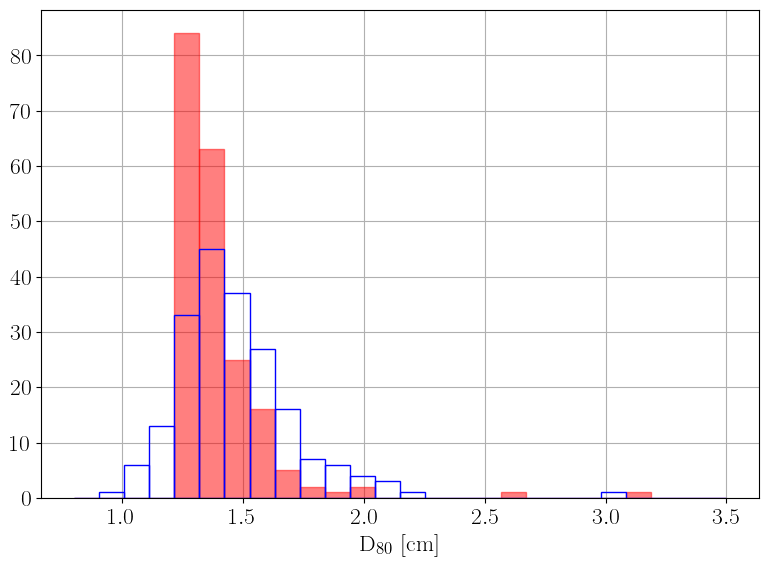
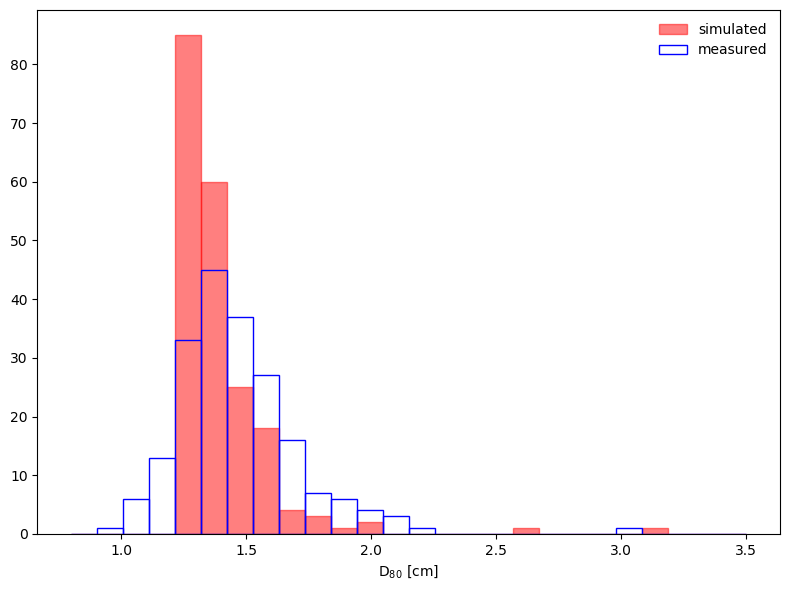
updating validate otics docs

diff --git a/applications/validate_optics.py b/applications/validate_optics.py
@@ -1,5 +1,62 @@
 #!/usr/bin/python3
 
+'''
+    Summary
+    -------
+    This application validates the optical model parameters through ray tracing simulations \
+    of the whole telescope, assuming a point-like light source. The output includes PSF (D80), \
+    effective mirror area and effective focal lenght as a function of the off-axis angle. \
+
+    The telescope zenith angle and the source distance can be set by command line arguments.
+
+    Examples of the plots generated by this applications are shown below. On the top, the D80 \
+    vs off-axis is shown in cm (left) and deg (right). On the bottom, the effective mirror \
+    area (left) and the effective focal length (right) vs off-axis angle are shown.
+
+    .. _validate_optics_plot:
+    .. image::  images/validate_optics_North-LST-1_d80_cm.png
+      :width: 49 %
+    .. image::  images/validate_optics_North-LST-1_d80_deg.png
+      :width: 49 %
+
+    .. image::  images/validate_optics_North-LST-1_eff_area.png
+      :width: 49 %
+    .. image::  images/validate_optics_North-LST-1_eff_flen.png
+      :width: 49 %
+
+
+    Command line arguments
+    ----------------------
+    tel_name (str, required)
+        Telescope name (e.g. North-LST-1, South-SST-D, ...).
+    model_version (str, optional)
+        Model version (default=prod4).
+    src_distance (float, optional)
+        Source distance in km (default=10).
+    zenith (float, optional)
+        Zenith angle in deg (default=20).
+    max_offset (float, optional)
+        Maximum offset angle in deg (default=4).
+    test (activation mode, optional)
+        If activated, application will be faster by simulating fewer photons.
+    verbosity (str, optional)
+        Log level to print (default=INFO).
+
+    Example
+    -------
+    LST-1 Prod5
+
+    Runtime about 50 min.
+
+    .. code-block:: console
+
+        python applications/validate_optics.py --tel_name North-LST-1 -max_offset 5.0
+
+    .. todo::
+
+        * Change default model to default (after this feature is implemented in db_handler)
+'''
+
 import logging
 import matplotlib.pyplot as plt
 import argparse
@@ -9,8 +66,12 @@ import astropy.units as u
 
 import simtools.config as cfg
 import simtools.util.general as gen
+import simtools.io_handler as io
 from simtools.model.telescope_model import TelescopeModel
 from simtools.ray_tracing import RayTracing
+from simtools.visualize import setStyle
+
+setStyle()
 
 
 if __name__ == '__main__':
@@ -18,13 +79,13 @@ if __name__ == '__main__':
     parser = argparse.ArgumentParser(
         description=(
             'Calculate and plot the PSF and eff. mirror area as a function of off-axis angle '
-            'of the telescope requested'
+            'of the telescope requested.'
         )
     )
     parser.add_argument(
         '-t',
-        '--tel_type',
-        help='Telescope type (e.g. mst-flashcam, lst)',
+        '--tel_name',
+        help='Telescope name (e.g. North-MST-FlashCam-D, North-LST-1)',
         type=str,
         required=True
     )
@@ -36,28 +97,12 @@ if __name__ == '__main__':
         default='prod4'
     )
     parser.add_argument(
-        '-l',
-        '--label',
-        help='Label (default=validate-optics)',
-        type=str,
-        default='validate-optics'
-    )
-    parser.add_argument(
-        '-s',
-        '--site',
-        help='Site (default=South)',
-        type=str,
-        default='South'
-    )
-    parser.add_argument(
-        '-d',
         '--src_distance',
         help='Source distance in km (default=10)',
         type=float,
         default=10
     )
     parser.add_argument(
-        '-z',
         '--zenith',
         help='Zenith angle in deg (default=20)',
         type=float,
@@ -70,6 +115,11 @@ if __name__ == '__main__':
         default=4
     )
     parser.add_argument(
+        '--test',
+        help='Test option will be faster by simulating fewer photons.',
+        action='store_true'
+    )
+    parser.add_argument(
         '-v',
         '--verbosity',
         dest='logLevel',
@@ -79,24 +129,25 @@ if __name__ == '__main__':
     )
 
     args = parser.parse_args()
+    label = 'validate_optics'
 
-    logger = logging.getLogger('validate_optics')
+    logger = logging.getLogger(label)
     logger.setLevel(gen.getLogLevelFromUser(args.logLevel))
 
+    # Output directory to save files related directly to this app
+    outputDir = io.getApplicationOutputDirectory(cfg.get('outputLocation'), label)
+
     telModel = TelescopeModel(
-        telescopeType=args.tel_type,
-        site=args.site,
+        telescopeName=args.tel_name,
         version=args.model_version,
-        label=args.label,
-        modelFilesLocations=None,
-        filesLocation=None,
+        label=label,
         readFromDB=True,
         logger=logger.name
     )
 
     print(
         '\nValidating telescope optics with ray tracing simulations'
-        'for {}\n'.format(telModel.telescopeType)
+        'for {}\n'.format(telModel.telescopeName)
     )
 
     ray = RayTracing(
@@ -106,11 +157,22 @@ if __name__ == '__main__':
         offAxisAngle=np.linspace(0, args.max_offset, int(args.max_offset / 0.25) + 1) * u.deg,
         logger=logger.name
     )
-    ray.simulate(test=False, force=False)
+    ray.simulate(test=args.test, force=False)
     ray.analyze(force=True)
 
     # Plotting
-    ray.plotAndSave('d80_deg', marker='o', linestyle=':', color='k')
-    ray.plotAndSave('d80_cm', marker='o', linestyle=':', color='k')
-    ray.plotAndSave('eff_area', marker='o', linestyle=':', color='k')
-    ray.plotAndSave('eff_flen', marker='o', linestyle=':', color='k')
+    for key in ['d80_deg', 'd80_cm', 'eff_area', 'eff_flen']:
+        plt.figure(figsize=(8, 6), tight_layout=True)
+
+        ray.plot(key, marker='o', linestyle=':', color='k')
+
+        plotFileName = label + '_' + telModel.telescopeName + '_' + key
+        plotFile = outputDir.joinpath(plotFileName)
+        plt.savefig(str(plotFile) + '.pdf', format='pdf', bbox_inches='tight')
+        plt.savefig(str(plotFile) + '.png', format='png', bbox_inches='tight')
+        plt.clf()
+
+    # ray.plotAndSave('d80_deg', marker='o', linestyle=':', color='k')
+    # ray.plotAndSave('d80_cm', marker='o', linestyle=':', color='k')
+    # ray.plotAndSave('eff_area', marker='o', linestyle=':', color='k')
+    # ray.plotAndSave('eff_flen', marker='o', linestyle=':', color='k')

diff --git a/simtools/ray_tracing.py b/simtools/ray_tracing.py
@@ -346,7 +346,7 @@ class RayTracing:
         self._results = ascii.read(self._fileResults, format='ecsv')
         self._hasResults = True
 
-    def plotAndSave(self, key, **kwargs):
+    def plot(self, key, save=False, **kwargs):
         '''
         Plot key vs off-axis angle and save the figure in pdf.
 
@@ -354,6 +354,8 @@ class RayTracing:
         ----------
         key: str
             d80_cm, d80_deg, eff_area or eff_flen
+        save: bool
+            If True, figure will be saved.
         **kwargs:
             kwargs for plt.plot
 
@@ -367,16 +369,7 @@ class RayTracing:
             self._logger.error(msg)
             raise KeyError(msg)
 
-        plotFileName = names.rayTracingPlotFileName(
-            key,
-            self._telescopeModel.telescopeName,
-            self._sourceDistance,
-            self._zenithAngle,
-            self.label
-        )
-        self._outputDirectory.joinpath('figures').mkdir(exist_ok=True)
-        plotFile = self._outputDirectory.joinpath('figures').joinpath(plotFileName)
-        self._logger.info('Plotting {} and saving it in {}'.format(key, plotFile))
+        self._logger.info('Plotting {} vs off-axis angle'.format(key))
 
         plt = visualize.plotTable(
             self._results['Offset', key],
@@ -385,35 +378,18 @@ class RayTracing:
             **kwargs
         )
 
-        plt.savefig(plotFile)
-        plt.clf()
-
-    def plot(self, key, **kwargs):
-        '''
-        Plot key vs off-axis angle.
-
-        Parameters
-        ----------
-        key: str
-            d80_cm, d80_deg, eff_area or eff_flen
-        **kwargs:
-            kwargs for plt.plot
-
-        Raises
-        ------
-        KeyError
-            If key is not among the valid options.
-        '''
-        if key not in self.YLABEL.keys():
-            msg = 'Invalid key to plot'
-            self._logger.error(msg)
-            raise KeyError(msg)
-        ax = plt.gca()
-        ax.plot(
-            [o.value for o in self._results['Offset']],
-            [r.value for r in self._results[key]],
-            **kwargs
-        )
+        if save:
+            plotFileName = names.rayTracingPlotFileName(
+                key,
+                self._telescopeModel.telescopeName,
+                self._sourceDistance,
+                self._zenithAngle,
+                self.label
+            )
+            self._outputDirectory.joinpath('figures').mkdir(exist_ok=True)
+            plotFile = self._outputDirectory.joinpath('figures').joinpath(plotFileName)
+            self._logger.info('Ssaving fig in {}'.format(plotFile))
+            plt.savefig(plotFile)
 
     def plotHistogram(self, key, **kwargs):
         '''

diff --git a/applications/derive_mirror_rnda.py b/applications/derive_mirror_rnda.py
@@ -80,6 +80,7 @@
     .. todo::
 
         * Change default model to default (after this feature is implemented in db_handler)
+        * Fix the setStyle. For some reason, sphinx cannot built docs with it on.
 '''
 
 
@@ -114,12 +115,14 @@ if __name__ == '__main__':
 
     parser = argparse.ArgumentParser()
     parser.add_argument(
+        '-t',
         '--tel_name',
         help='Telescope name (e.g. North-LST-1, South-SST-D, ...)',
         type=str,
         required=True
     )
     parser.add_argument(
+        '-m',
         '--model_version',
         help='Model version (default=prod4)',
         type=str,
